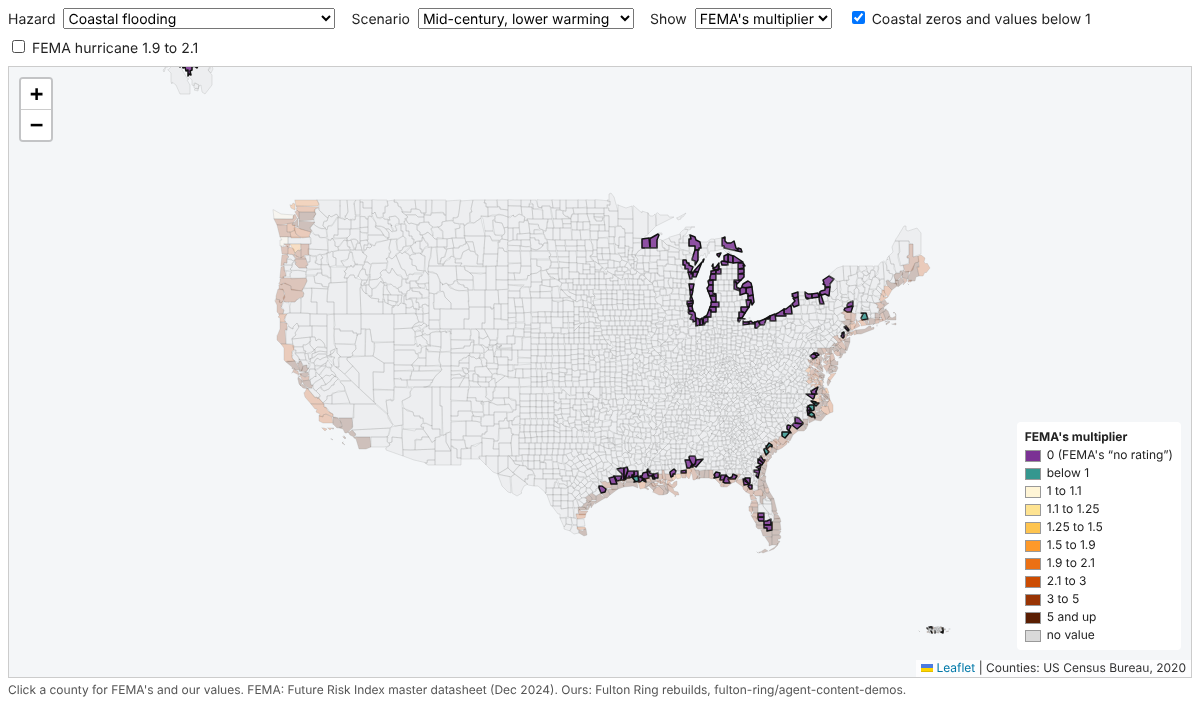
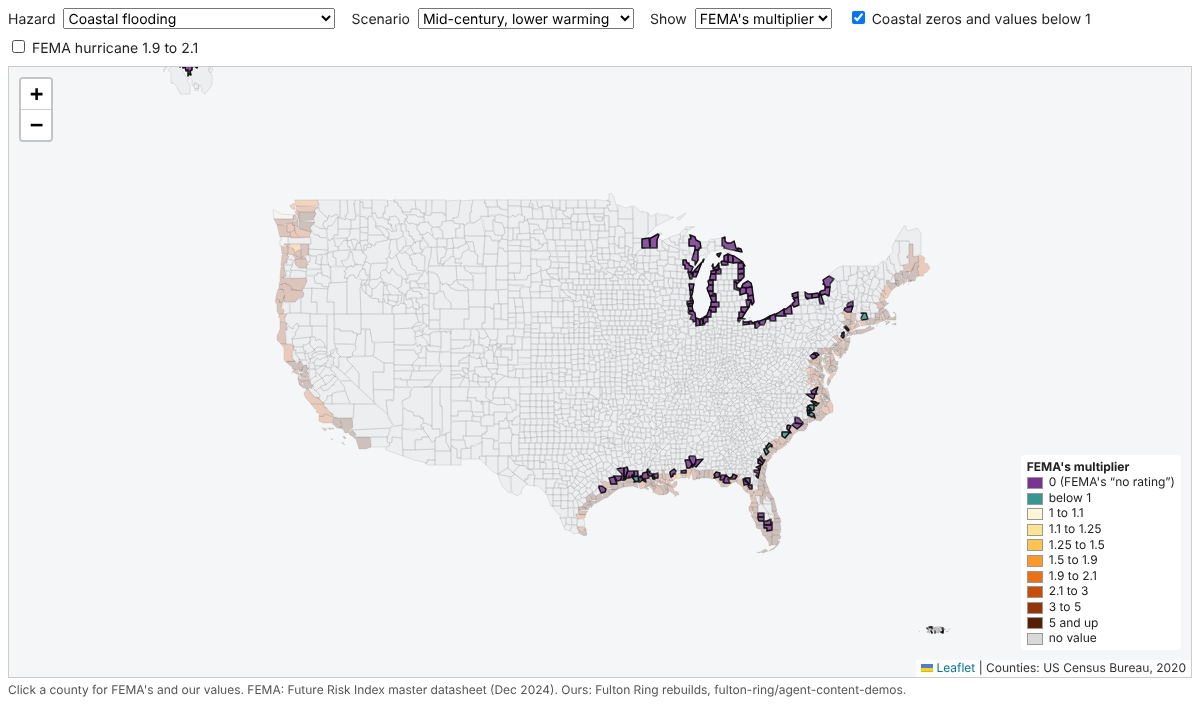
fri-datasets-map: README, data dictionary, legend and screenshots
Claude-Session: https://claude.ai/code/session_01PsCMS9cS6yaJBPijUseghA

Changed region(s): [[0.8325, 0.5806, 0.9867, 0.9167]]

diff --git a/fri-datasets-map/map/embed-example.html b/fri-datasets-map/map/embed-example.html
@@ -1,0 +1,21 @@
+<!doctype html>
+<html lang="en">
+  <head>
+    <meta charset="utf-8" />
+    <meta name="viewport" content="width=device-width, initial-scale=1" />
+    <title>Embed example</title>
+    <style>
+      body { max-width: 760px; margin: 2rem auto; font-family: Georgia, serif; }
+    </style>
+  </head>
+  <body>
+    <article>
+      <h1>What's inside FEMA's frozen climate risk multipliers</h1>
+      <p>Article text before the map.</p>
+      <!-- The embed: these two lines go in the Astro page. Pin the commit, not a branch. -->
+      <div data-fri-map data-hazard="HRCN" style="--fri-map-height: 480px"></div>
+      <script type="module" src="https://cdn.jsdelivr.net/gh/fulton-ring/agent-content-demos@COMMIT/fri-datasets-map/map/dist/fri-map.js"></script>
+      <p>Article text after the map.</p>
+    </article>
+  </body>
+</html>

diff --git a/fri-datasets-map/map/dist/fri-map.js b/fri-datasets-map/map/dist/fri-map.js
@@ -129,7 +129,8 @@ const STYLE = `
 .fri-map .fri-controls { display: flex; flex-wrap: wrap; gap: 8px 16px; margin-bottom: 8px; }
 .fri-map select { font: inherit; margin-left: 4px; }
 .fri-map .fri-canvas { height: var(--fri-map-height, 560px); border: 1px solid #ccc; background: #f4f6f8; }
-.fri-map .fri-legend { background: #fff; padding: 6px 8px; border-radius: 4px; line-height: 1.5; }
+.fri-map .fri-legend { background: #fff; padding: 4px 6px; border-radius: 4px; font-size: 12px;
+  line-height: 1.3; }
 .fri-map .fri-swatch { display: inline-block; width: 14px; height: 10px; margin-right: 6px;
   border: 1px solid #999; vertical-align: middle; }
 .fri-map .fri-note { font-size: 12px; color: #555; margin-top: 4px; }

diff --git a/fri-datasets-map/map/src/fri-map.ts b/fri-datasets-map/map/src/fri-map.ts
@@ -153,7 +153,8 @@ const STYLE = `
 .fri-map .fri-controls { display: flex; flex-wrap: wrap; gap: 8px 16px; margin-bottom: 8px; }
 .fri-map select { font: inherit; margin-left: 4px; }
 .fri-map .fri-canvas { height: var(--fri-map-height, 560px); border: 1px solid #ccc; background: #f4f6f8; }
-.fri-map .fri-legend { background: #fff; padding: 6px 8px; border-radius: 4px; line-height: 1.5; }
+.fri-map .fri-legend { background: #fff; padding: 4px 6px; border-radius: 4px; font-size: 12px;
+  line-height: 1.3; }
 .fri-map .fri-swatch { display: inline-block; width: 14px; height: 10px; margin-right: 6px;
   border: 1px solid #999; vertical-align: middle; }
 .fri-map .fri-note { font-size: 12px; color: #555; margin-top: 4px; }

diff --git a/fri-datasets-map/datasets.py b/fri-datasets-map/datasets.py
@@ -305,7 +305,7 @@ def _(mo):
     factor of 2, on two public storm catalogues, with Knutson et al.'s projected changes. Its
     range spans both catalogues and every published Knutson percentile. Its comparison table
     covers the 2,219 counties where FEMA published a hurricane multiplier; we add a flag for
-    FEMA's ~2.0 band (1.9 to 2.1). About 640 of those counties sit at FEMA's floor of 1; of the
+    FEMA's ~2.0 band (1.9 to 2.1). Between 615 and 643 of them sit at FEMA's floor of 1; of the
     rest, 95-97% are in the band in three scenarios, and about a third in late century, higher
     warming, where FEMA's values spread upward.
     """)

diff --git a/fri-datasets-map/README.md b/fri-datasets-map/README.md
@@ -1,0 +1,123 @@
+# FEMA's frozen climate risk multipliers: open county datasets and an embeddable map
+
+FEMA's Future Risk Index (FRI) multiplied each county's expected annual loss by a hazard
+multiplier for four futures. FEMA took it down in February 2025 and plans no update. Two spikes
+here rebuilt the multipliers from public data:
+[`fri-agent-rebuild/`](../fri-agent-rebuild/) and
+[`hurloss-public-rebuild/`](../hurloss-public-rebuild/). This folder publishes FEMA's values
+and ours side by side as county files, and as a map the whitepaper can embed. It is the work
+for [issue #77](https://github.com/fulton-ring/agent-content-demos/issues/77)
+([proposal card](https://app.notion.com/p/3ffcc69045cb8113a3e4fd030566e952)).
+
+**Read [`datasets.py`](datasets.py)** (a [marimo](https://marimo.io) notebook) for how each
+file is made, and [`data/DATA_DICTIONARY.md`](data/DATA_DICTIONARY.md) for every column and
+the licence.
+
+![The map, hurricane, FEMA's multiplier](screenshots/hurricane_fema.png)
+
+## What's in it
+
+| File | What |
+|---|---|
+| [`data/multipliers_by_county.csv`](data/multipliers_by_county.csv) | FEMA's and our multipliers for drought, wildfire, extreme heat (LOCA2 and NEX, 95th and 99th) and coastal flooding: 3,231 counties × 7 × 4 scenarios, with the held-out flag |
+| [`data/coastal_flags.csv`](data/coastal_flags.csv) | The 120 coastal zeros and 17 values below 1, with NRI v1.18.1 losses |
+| [`data/hurricane_by_county.csv`](data/hurricane_by_county.csv) | FEMA's hurricane multipliers next to our open layer (central and range), 2,219 counties |
+| [`data/baseline_scores.csv`](data/baseline_scores.csv) | The constant baseline per hazard, against the rebuild and the Draft job's figures |
+| [`data/counties.parquet`](data/counties.parquet) | All of it, one row per county, with Census 2020 shapes (GeoParquet) |
+| [`map/`](map/) | The map: [`map/src/fri-map.ts`](map/src/fri-map.ts), built to `map/dist/fri-map.js`, reading `map/data/counties.geojson` |
+
+## Results
+
+**The constant baseline**, a held-out county given the training-state median, reproduces the
+Draft job's hand-worked figures exactly for all five hazards (held-out states, mean over
+scenarios):
+
+| Hazard | Baseline same bin | Baseline log error | Rebuild same bin | Rebuild log error |
+|---|---|---|---|---|
+| Drought | 81.9% | 0.443 | 99.6% | 0.021 |
+| Wildfire | 93.1% | 0.194 | 96.9% | 0.072 |
+| Extreme heat, LOCA2 | 79.4% | 0.545 | 99.7% | 0.009 |
+| Extreme heat, NEX | 84.1% | 0.393 | 90.0% | 0.240 |
+| Coastal flooding | 78.6% | 0.605 | 75.0% | 0.662 |
+
+The baseline is computed in this folder's notebook with `fri_rebuild.scoring`, imported from the
+rebuild rather than copied. The issue asked for it in `fri-agent-rebuild/notebooks/rebuild.py`,
+but AGENTS.md says never to touch another project's folder.
+
+**Coastal flags.** 120 counties have coastal flood loss and a multiplier of 0 in every scenario.
+Of these, **71 had no coastal loss in v1.18.1 and 49 did**, by FIPS against FEMA's own v1.18.1
+county service. That is one county off the 70 / 50 reported on #42, whose code isn't
+committed; the third-party copy the coastal notebook uses also gives 49. Of the 17 below 1,
+8 had v1.18.1 loss.
+
+**Hurricane.** Between 615 and 643 of the 2,219 counties sit at FEMA's floor of 1, depending on the scenario. Of
+the rest, 95-97% are between 1.9 and 2.1 in three scenarios and 32% in late century, higher
+warming. Our central multipliers have medians of 1.01-1.06.
+
+**The map** has a hazard and scenario picker, shows FEMA's value, ours or the ratio, and has a
+popup with both values (and our range for hurricane). Two toggles outline the coastal flags and
+FEMA's 1.9-2.1 hurricane band and fade every other county. Served from jsDelivr, it was ready
+2.7 s after page load in headless Chromium. The data file is 5.0 MB, about 1 MB compressed.
+
+![Coastal zeros and values below 1 highlighted](screenshots/coastal_zeros.png)
+
+## Embed it
+
+Paste this into the Astro page, with the commit the article should freeze on:
+
+```html
+<div data-fri-map data-hazard="HRCN" style="--fri-map-height: 480px"></div>
+<script type="module" src="https://cdn.jsdelivr.net/gh/fulton-ring/agent-content-demos@<commit>/fri-datasets-map/map/dist/fri-map.js"></script>
+```
+
+- `data-hazard` (`DRGT`, `WFIR`, `EXHT_L95`, `EXHT_L99`, `EXHT_N95`, `EXHT_N99`, `CFLD`, `HRCN`),
+  `data-scenario` and `data-view` (`fema`, `ours`, `ratio`) set the opening view.
+- The script loads Leaflet 1.9.4 from jsDelivr if the page hasn't, and reads
+  `../data/counties.geojson` next to itself. `data-src` points it elsewhere, for example a copy
+  on the Astro site.
+- [`map/embed-example.html`](map/embed-example.html) is a full page, and
+  [`screenshots/embed_jsdelivr.png`](screenshots/embed_jsdelivr.png) shows it working.
+- jsDelivr serves `.js` and `.geojson` from GitHub, but serves `.html` as plain text, so it
+  can't host `map/index.html` for an iframe. To get an iframe URL, enable GitHub Pages on this
+  repo (a founder's call), or copy `map/` into the Astro site's `public/`.
+
+**Why a new page, not the existing map.** [fulton-ring/nri-future-risk](https://github.com/fulton-ring/nri-future-risk)
+is a React, Tailwind and shadcn replica of FEMA's tool, built as one Vite app for its own Pages
+site. Extending it would mean a second app in that repo and a cross-repo PR. Its global
+Tailwind styles would also leak into an Astro article. So this map reuses its approach
+(Leaflet over Census counties, the same datasheet) in one strict TypeScript file of about 300
+lines with scoped CSS. That breaks the AGENTS.md "Tailwind and shadcn" rule, on purpose, so
+the embed doesn't restyle the host page.
+
+## Run it
+
+```bash
+./run.sh
+```
+
+It needs [uv](https://docs.astral.sh/uv/) and Node 22. It runs `datasets.py` as a script,
+writing `data/` and `map/data/` (about 15 s once the downloads are cached), then checks the map
+with `biome` and `tsc` and builds `map/dist/fri-map.js`. To view the map, serve this folder
+(`python3 -m http.server`) and open `map/index.html`. To read the notebook with its outputs:
+`uv run marimo edit datasets.py`.
+
+## Where the data comes from
+
+- **FEMA's multipliers**: the FRI master datasheet (12/05/2024) from
+  [fulton-ring/nri-future-risk](https://github.com/fulton-ring/nri-future-risk) at `c5cc0d6`,
+  downloaded at run time with `fri_rebuild.data` into `$FRI_CACHE`, shared with the rebuild.
+- **Ours**: the committed `results/` of the two rebuilds. Nothing is rerun, so this takes
+  seconds, not the rebuild's 15-hour LOCA2 step.
+- **NRI v1.18.1 coastal losses**: FEMA's `NRI_Counties_Prod_v1181_view` ArcGIS service.
+- **Shapes**: Census 2020 cartographic boundaries, 1:20m.
+
+## What it doesn't show
+
+- Our values are reconstructions. Coastal flooding loses to the constant baseline, NEX heat's
+  99th percentile runs low, and the hurricane layer is FEMA's method on open inputs, not
+  FEMA's numbers.
+- No rebuilt values for Alaska, Hawaii or the territories. The map and GeoParquet leave out
+  American Samoa, Guam, the Northern Marianas and the Virgin Islands (no 1:20m shapes).
+- No live URL yet that works without a commit hash: jsDelivr links are pinned to a commit.
+- The CC BY 4.0 licence for our values is a proposal; a founder may prefer CC0 to match
+  nri-future-risk's public-domain dedication.
